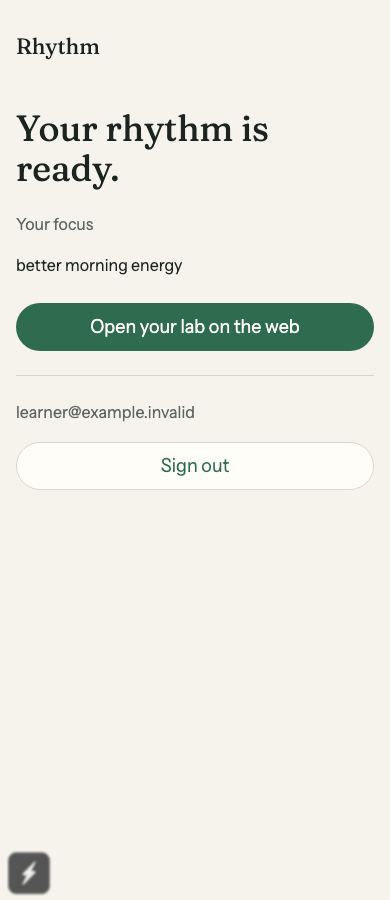
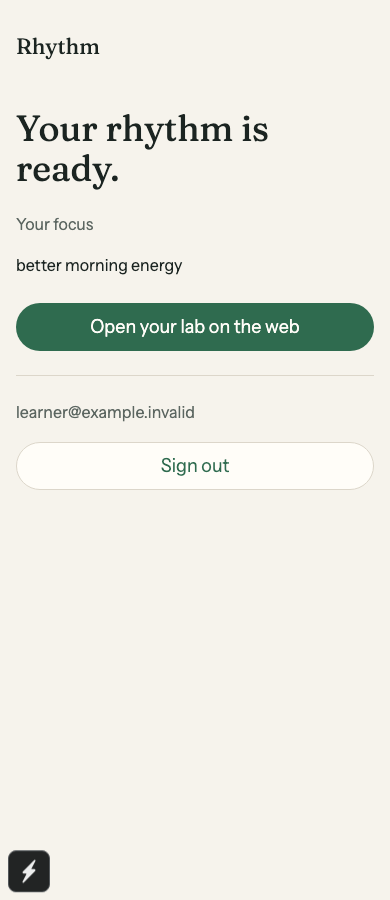
fix: serialize encrypted mobile session storage operations
Prevent mixed refresh chunks and use current SDK coordination defaults.

Changed region(s): [[0.0, 0.9333, 0.1538, 0.9956]]

diff --git a/apps/mobile/src/lib/secure-session-storage.ts b/apps/mobile/src/lib/secure-session-storage.ts
@@ -5,7 +5,8 @@ type Manifest = { slot: 'a' | 'b'; count: number; otherCount: number };
 /** All payloads and metadata stay in encrypted native storage, below historical
  * iOS limits. Two slots retain the old session until every new chunk is written.
  * Pending chunk counts are recorded first, so interrupted writes can be removed.
- * Supabase's processLock serializes writers; no token is logged or put in AsyncStorage.
+ * Adapter operations serialize independently of SDK refresh coordination.
+ * No token is logged or put in AsyncStorage.
  */
 export function createSecureSessionStorage(driver: Driver) {
   async function manifest(key: string): Promise<Manifest | null> {
@@ -20,7 +21,7 @@ export function createSecureSessionStorage(driver: Driver) {
   async function removeChunks(key: string, slot: 'a' | 'b', count: number) {
     for (let i = 0; i < count; i++) await driver.deleteItemAsync(`${key}.${slot}.${i}`);
   }
-  return {
+  const store = {
     async getItem(key: string): Promise<string | null> {
       const meta = await manifest(key);
       if (!meta || meta.count === 0) return null;
@@ -53,5 +54,17 @@ export function createSecureSessionStorage(driver: Driver) {
       }
       await driver.deleteItemAsync(key);
     },
+  };
+  let pending: Promise<void> = Promise.resolve();
+  function ordered<T>(operation: () => Promise<T>): Promise<T> {
+    const result = pending.then(operation);
+    // Reset the queue after either outcome; the original result/error goes to the caller.
+    pending = result.then(() => undefined, () => undefined);
+    return result;
+  }
+  return {
+    getItem: (key: string) => ordered(() => store.getItem(key)),
+    setItem: (key: string, value: string) => ordered(() => store.setItem(key, value)),
+    removeItem: (key: string) => ordered(() => store.removeItem(key)),
   };
 }

diff --git a/apps/mobile/src/lib/supabase.ts b/apps/mobile/src/lib/supabase.ts
@@ -1,4 +1,4 @@
-import { createClient, processLock } from '@supabase/supabase-js';
+import { createClient } from '@supabase/supabase-js';
 import * as SecureStore from 'expo-secure-store';
 import { Platform } from 'react-native';
 import type { readConfig } from './config';
@@ -13,6 +13,6 @@ export function createAuthClient(config: Pick<ReturnType<typeof readConfig>, 'su
     removeItem: async (key: string) => { preview.delete(key); },
   } : createSecureSessionStorage(SecureStore);
   return createClient(config.supabaseUrl, config.anonKey, {
-    auth: { storage, autoRefreshToken: true, persistSession: true, detectSessionInUrl: false, lock: processLock },
+    auth: { storage, autoRefreshToken: true, persistSession: true, detectSessionInUrl: false },
   });
 }

diff --git a/docs/ARCHITECTURE.md b/docs/ARCHITECTURE.md
@@ -288,7 +288,7 @@ Counts below are from native-token review verification on **31 Oct 2026**, on `c
 |---|---|---|---|
 | Backend, `backend/` | `uv run pytest` | **243 passed**, one existing Starlette/httpx deprecation warning | Statistics, progress, safety, auth/ownership, profile/experiment/check-in/completion/report/demo endpoints and history. FastAPI TestClient uses dependency overrides, monkeypatched repositories/in-memory fakes, and fake AI transport: [auth](../backend/tests/test_auth.py), [proposal](../backend/tests/test_propose.py), [completion](../backend/tests/test_completion.py), [report](../backend/tests/test_report.py), [history](../backend/tests/test_history.py), [demo](../backend/tests/test_demo.py) |
 | Frontend, `frontend/` | `npm test` | **157 passed** in **26 files** | Vitest + Testing Library in jsdom, MSW HTTP mocks and mocked Supabase auth. Data/auth/onboarding/experiment/report/home behavior plus API fixture validation: [tests](../frontend/tests/), [MSW server](../frontend/tests/support/server.ts), [contract assertions](../frontend/tests/contracts/api-contract.test.ts) |
-| Mobile, `apps/mobile/` | `npm test` | **27 passed** in **3 files** | Expo/Jest and React Native Testing Library: sign-in, restoration, profile states, offline, sign-out, native font startup and encrypted storage; [tests](../apps/mobile/__tests__/) |
+| Mobile, `apps/mobile/` | `npm test` | **28 passed** in **3 files** | Expo/Jest and React Native Testing Library: sign-in, restoration, profile states, offline, sign-out, native font startup and encrypted storage; [tests](../apps/mobile/__tests__/) |
 | Brand, `packages/brand/` | `npm test` | **11 passed** | CSS unit conversion/fluid type, token propagation and read-only freshness checks: [tests](../packages/brand/tests/). [Frontend checks](../frontend/tests/brand/tokens.test.ts) cover timing units, text contrast and numeric sizing |
 | Contract, `packages/contract/` | `npm test` | **6 passed** | Generation writes schema/types; the read-only freshness check rejects missing artifacts, schema drift and type drift without rewriting them: [tests](../packages/contract/tests/artifacts.test.mjs) |
 | Browser, `frontend/` | `npm run test:e2e` | **76 passed, 1 skipped** (77 scenarios) | Real Next.js in Chromium with intercepted auth/API calls. Onboarding → proposal → start, check-ins, reports, history/demo, errors, layout and reduced motion: [helpers](../frontend/tests/e2e/helpers.ts), [core flow](../frontend/tests/e2e/onboarding-experiment.spec.ts), [report writing](../frontend/tests/e2e/report-writing.spec.ts), [early finish/timezones](../frontend/tests/e2e/early-finish-days.spec.ts) |
@@ -310,6 +310,6 @@ Shakeb should confirm these implementation descriptions and accepted V1 limits; 
 
 ## Mobile scaffold (step 1, 31 Oct 2026)
 
-[`apps/mobile`](../apps/mobile/README.md) is an Expo SDK 58 / Expo Router npm workspace. Its [entry](../apps/mobile/app/index.tsx) gates private profile content behind restored Supabase auth, packaged brand fonts and validated public configuration. [Auth](../apps/mobile/src/lib/supabase.ts) uses encrypted [SecureStore chunks](../apps/mobile/src/lib/secure-session-storage.ts), `processLock`, foreground refresh and local-device sign-out; no backend key is shipped. [Profile data](../apps/mobile/src/lib/profile.ts) uses generated `Profile` and the user's Bearer token; it is read-only. Shared [native tokens](../packages/brand/src/index.ts) supply styles and fonts. Web preview is memory-only and does not prove native persistence.
+[`apps/mobile`](../apps/mobile/README.md) is an Expo SDK 58 / Expo Router npm workspace. Its [entry](../apps/mobile/app/index.tsx) gates private profile content behind restored Supabase auth, packaged brand fonts and validated public configuration. [Auth](../apps/mobile/src/lib/supabase.ts) uses encrypted [SecureStore chunks](../apps/mobile/src/lib/secure-session-storage.ts), serialized storage, SDK refresh coordination, foreground refresh and local-device sign-out; no backend key is shipped. [Profile data](../apps/mobile/src/lib/profile.ts) uses generated `Profile` and the user's Bearer token; it is read-only. Shared [native tokens](../packages/brand/src/index.ts) supply styles and fonts. Web preview is memory-only and does not prove native persistence.
 
 The mobile app currently makes only Supabase sign-in/refresh/sign-out requests and `GET /api/profile`. It links setup and the lab to the existing web app on the API host's port 3000. Today, Check-in, notification scheduling and Progress are not built in this PR; [MOBILE_PLAN.md](MOBILE_PLAN.md) remains their spec. No backend or migration changes are needed. Native tests use Jest/Expo + React Native Testing Library with fake transport/storage, while web keeps Vitest/MSW and Playwright; root `npm test` runs both workspace suites.

diff --git a/apps/mobile/README.md b/apps/mobile/README.md
@@ -68,3 +68,7 @@ For just the app: `npm test --workspace=@rhythm-health/mobile`. Tests use Expo's
 Nazmul reported all five iPhone Expo Go checks passed on 31 Oct 2026: sign in, profile visible, fully close/reopen, session retained, sign out. This used his real account and a read-only profile call, with no invented health data or paid AI calls. Mocked Expo web previews at 390px and 1440px were visually inspected; [screenshots](../../docs/screenshots/mobile-sign-in/) contain fake accounts/profile data, not his account. They do not claim Android device verification.
 
 The SDK check also requires mobile TypeScript `~6.0.3`; it is isolated from the web's TypeScript 5. Native iOS/Android exports use fake public settings and dotenv disabled. npm's audit currently reports 52 findings, including three high findings propagated through Expo CLI's Zod dependency. Its suggested automatic fix downgrades Expo to SDK 54, incompatible with the store Expo Go requirement; no forced downgrade or incompatible transitive-major override is applied. Review compatible upstream fixes before distribution. The app's behavior tests remain independent of those developer-tool dependencies.
+
+Storage operations are serialized by the adapter, including concurrent refresh writes, without the SDK's deprecated custom `lock` option. Supabase 2.118 uses its [built-in refresh coordination and commit guard](https://github.com/supabase/supabase-js/blob/master/packages/core/auth-js/migrations/lockless-coordination.md).
+
+Final checks after the main refresh at `70adf46`: clean root install, Expo dependency check, workspace lint/typecheck, 157 web / 28 mobile / 11 brand / 6 contract unit tests, iOS and Android exports, and the web production build passed. Playwright finished with 76 passed and its one existing keyboard-onboarding skip. No backend/migration files or env files are included.

diff --git a/docs/rules/secrets.md b/docs/rules/secrets.md
@@ -4,7 +4,7 @@ These logs are public. Anything a secret touches (a prompt, a response, a commit
 
 ## Where they live
 
-- Real values go in `frontend/.env.local` and `backend/.env.local` only. `.gitignore` ignores every `.env*` file except `.env.example`.
+- Real values go in `frontend/.env.local`, `backend/.env.local` and `apps/mobile/.env.local` only. `.gitignore` ignores every `.env*` file except `.env.example`.
 - `.env.example` files list variable **names**, never values. Update them when you add a variable.
 - `frontend/.env.test` is committed on purpose. It holds fake placeholder values for the automated tests, never a real project's.
 - The full list of variables, and which are secret, is in [`docs/ENV_SETUP.md`](../ENV_SETUP.md).
@@ -18,3 +18,7 @@ These logs are public. Anything a secret touches (a prompt, a response, a commit
   - Never give one a `NEXT_PUBLIC_` name, because Next.js ships every `NEXT_PUBLIC_` variable to the browser.
 - The frontend only has the Supabase URL, the public anon key and the API URL (TRD §36).
 - If a real value ends up in a commit or a session log, tell the other person straight away and rotate it in Supabase or OpenRouter. Deleting the commit isn't enough once it's pushed.
+
+## Mobile
+
+Expo bundles `EXPO_PUBLIC_…` settings into the app. Only `EXPO_PUBLIC_SUPABASE_URL`, `EXPO_PUBLIC_SUPABASE_ANON_KEY` and `EXPO_PUBLIC_API_URL` belong in `apps/mobile/.env.local`. Never a service-role or OpenRouter key. Check set/not set by name only, never print values, and never commit the file. Native sessions use SecureStore; tests use fake configuration in test setup, never real env files.

diff --git a/.claude-logs/2026-10-29_04-49-43_01a184b2-eeb0-7573-b20f-31f20448fae5.md b/.claude-logs/2026-10-29_04-49-43_01a184b2-eeb0-7573-b20f-31f20448fae5.md
@@ -9,7 +9,7 @@ agent: codex
 session_status: complete
 last_entry_type: assistant
 total_exchanges: 92
-generated_at: 2026-10-31T11:32:16.157592
+generated_at: 2026-10-31T11:34:07.395132
 first_prompt_time: 2026-10-28T22:48:18.199Z
 last_prompt_time: 2026-10-31T05:21:04.593Z
 session_duration_minutes: 3272.8
@@ -20,8 +20,8 @@ avg_prompt_length_chars: 842.9
 avg_prompt_length_words: 130.6
 longest_prompt_words: 1782
 shortest_prompt_words: 1
-total_response_chars: 119173
-avg_response_length_chars: 1295.4
+total_response_chars: 119195
+avg_response_length_chars: 1295.6
 response_to_prompt_ratio: 1.54
 prompts_with_code_blocks: 1
 prompts_with_file_paths: 2
@@ -4805,10 +4805,10 @@ likely_pasted: False
 
 
 [CLAUDE_LOG_ENTRY type=RESPONSE num=92 session=01a184b2-eeb0-7573-b20f-31f20448fae5]
-timestamp: 2026-10-31T05:28:37.262Z
-time: 2026-10-31 05:28
-chars: 283
+timestamp: 2026-10-31T05:33:56.219Z
+time: 2026-10-31 05:33
+chars: 305
 
-The refreshed workspace checks and both native exports pass. The full web browser suite is still running without failures.
+All final checks pass: 28 mobile tests, 157 web tests, the brand and contract suites, lint, typecheck, both native exports and the web production build. Playwright finished with 76 passes and its one existing skip.
 
-I’m also capturing the mobile preview’s profile loading, retry, missing-profile and offline states. Those checks are separate from your successful iPhone test.
+I’m committing the final storage fix and verification record, then opening the step-1 PR.

diff --git a/docs/screenshots/mobile-sign-in/README.md b/docs/screenshots/mobile-sign-in/README.md
@@ -1,5 +1,5 @@
 # Mobile sign-in preview evidence
 
-31 Oct 2026: Expo web preview rendered in Chromium at 390px and 1440px. Auth/profile requests were intercepted with fake values; images show no real account data. Checked sign-in, profile, sign-out, layout and absence of page errors/overflow. No animation was added; reduced-motion preview showed the same final information.
+31 Oct 2026: Expo web preview rendered in Chromium at 390px and 1440px. Auth/profile requests were intercepted with fake values; images show no real account data. Checked sign-in, profile loading, server error/retry, profile, missing profile, offline, sign-out and layout and absence of page errors/overflow. No animation was added; reduced-motion preview showed the same final information.
 
 Native verification is separate: Nazmul reported sign-in, real profile loading, full close/reopen with session retention, and sign-out all passed on his iPhone in Expo Go. Android bundles exported, but no physical Android check is claimed. See [app setup](../../../apps/mobile/README.md).

diff --git a/docs/MOBILE_PLAN.md b/docs/MOBILE_PLAN.md
@@ -1,6 +1,6 @@
 # Mobile app plan (V1)
 
-The plan for `apps/mobile/`, an Expo app for the daily loop. Written **31 Oct 2026** against `main` at `082a878` (after #33). Nothing under `apps/` exists yet; everything below is a plan. Status and dates: [REMAINING_WORK.md](REMAINING_WORK.md#plan-to-thursday-5-nov).
+The plan for `apps/mobile/`, an Expo app for the daily loop. Written **31 Oct 2026** against `main` at `082a878` (after #33). Step 1 now exists under [`apps/mobile/`](../apps/mobile/README.md): Expo Go sign-in and profile loading. Steps 2–5 below remain the plan and each gets its own later PR. Status and dates: [REMAINING_WORK.md](REMAINING_WORK.md#plan-to-thursday-5-nov).
 
 ## Why mobile
 
